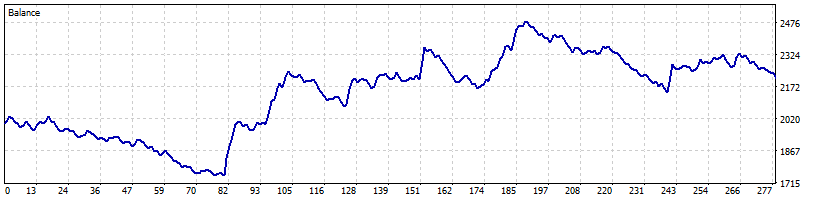
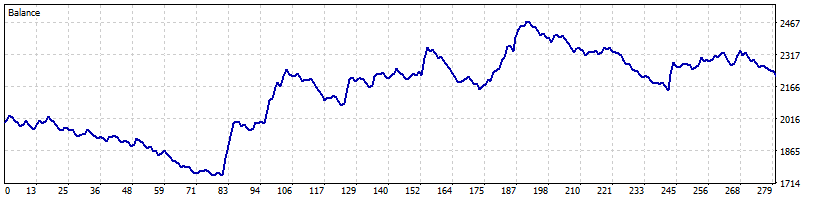
docs: refresh default reports

diff --git a/reports/default-2026-real-ticks/index.html b/reports/default-2026-real-ticks/index.html
@@ -79,20 +79,20 @@ tbody tr:last-child th,tbody tr:last-child td{border-bottom:0}
 </style></head>
 <body>
 <header class="site-header"><div class="bar">
-<span class="brand">Nyao Scalper v47.0 <span class="tag">Backtest Report</span></span>
+<span class="brand">Nyao Scalper v48.0 <span class="tag">Backtest Report</span></span>
 <nav class="links" aria-label="Links"><a href="https://github.com/elrizwiraswara/nyao_scalper_mt5">GitHub &#8599;</a></nav>
 </div></header>
 <main>
 <div class="band spacer" aria-hidden="true"><div class="frame"></div></div>
-<section class="band"><div class="frame"><p class="section-title"><span class="slashes">//</span> Backtest Report</p><div class="intro"><h1>Default profile - XAUUSDm M1 vs M5, real ticks Jan-Sep 2026</h1><p class="lead"><b>Nyao Scalper v47.0</b> with <b>settings/default.set</b> on XAUUSDm M1, M5, real ticks, 2026-01 to 2026-09. Each month is a separate run starting from the same deposit.</p></div></div></section>
+<section class="band"><div class="frame"><p class="section-title"><span class="slashes">//</span> Backtest Report</p><div class="intro"><h1>Default profile - XAUUSDm M1 vs M5, real ticks Jan-Sep 2026</h1><p class="lead"><b>Nyao Scalper v48.0</b> with <b>settings/default.set</b> on XAUUSDm M1, M5, real ticks, 2026-01 to 2026-09. Each month is a separate run starting from the same deposit.</p></div></div></section>
 <div class="band spacer" aria-hidden="true"><div class="frame"></div></div>
-<section class="band"><div class="frame"><h2 class="section-title"><span class="slashes">//</span> Setup</h2><div class="cells setup"><div><span class="label">EA</span><span class="value">Nyao Scalper v47.0 (nyao_scalper.mq5)</span></div><div><span class="label">Settings</span><span class="value">settings/default.set</span></div><div><span class="label">Git commit</span><span class="value">679fbe5</span></div><div><span class="label">Symbol / timeframes</span><span class="value">XAUUSDm / M1, M5</span></div><div><span class="label">Tick data</span><span class="value">Every tick based on real ticks</span></div><div><span class="label">Deposit / leverage</span><span class="value">2,000 USD / 1:500</span></div><div><span class="label">Runs</span><span class="value">One run per month, each starting from a fresh deposit</span></div><div><span class="label">Generated</span><span class="value">2026-10-15 23:49 with tools/backtest/nyao_backtest.py</span></div></div></div></section>
+<section class="band"><div class="frame"><h2 class="section-title"><span class="slashes">//</span> Setup</h2><div class="cells setup"><div><span class="label">EA</span><span class="value">Nyao Scalper v48.0 (nyao_scalper.mq5)</span></div><div><span class="label">Settings</span><span class="value">settings/default.set</span></div><div><span class="label">Git commit</span><span class="value">84ebb10</span></div><div><span class="label">Symbol / timeframes</span><span class="value">XAUUSDm / M1, M5</span></div><div><span class="label">Tick data</span><span class="value">Every tick based on real ticks</span></div><div><span class="label">Deposit / leverage</span><span class="value">2,000 USD / 1:500</span></div><div><span class="label">Runs</span><span class="value">One run per month, each starting from a fresh deposit</span></div><div><span class="label">Generated</span><span class="value">2026-10-16 10:03 with tools/backtest/nyao_backtest.py</span></div></div></div></section>
 <div class="band spacer" aria-hidden="true"><div class="frame"></div></div>
-<section class="band"><div class="frame"><h2 class="section-title"><span class="slashes">//</span> Summary</h2><div class="cells summary"><div><span class="tag">M1</span><span class="big pos">+22.0%</span><span class="muted">Total return (sum of runs)</span><dl class="metrics"><div><dt>Profitable runs</dt><dd>5 / 9</dd></div><div><dt>Best / worst run</dt><dd>+27.9% / -17.8%</dd></div><div><dt>Max drawdown</dt><dd>32.3%</dd></div><div><dt>Profit factor</dt><dd>1.04</dd></div><div><dt>Trades</dt><dd>1,478</dd></div><div><dt>Win rate</dt><dd>36%</dd></div><div><dt>Avg win / loss</dt><dd>$21.12 / -$11.27</dd></div><div><dt>Tick data</dt><dd>100% real ticks</dd></div></dl></div><div><span class="tag">M5</span><span class="big pos">+83.4%</span><span class="muted">Total return (sum of runs)</span><dl class="metrics"><div><dt>Profitable runs</dt><dd>6 / 9</dd></div><div><dt>Best / worst run</dt><dd>+39.9% / -3.1%</dd></div><div><dt>Max drawdown</dt><dd>20.0%</dd></div><div><dt>Profit factor</dt><dd>1.20</dd></div><div><dt>Trades</dt><dd>1,109</dd></div><div><dt>Win rate</dt><dd>44%</dd></div><div><dt>Avg win / loss</dt><dd>$20.72 / -$13.43</dd></div><div><dt>Tick data</dt><dd>100% real ticks</dd></div></dl></div></div></div></section>
+<section class="band"><div class="frame"><h2 class="section-title"><span class="slashes">//</span> Summary</h2><div class="cells summary"><div><span class="tag">M1</span><span class="big pos">+8.9%</span><span class="muted">Total return (sum of runs)</span><dl class="metrics"><div><dt>Profitable runs</dt><dd>5 / 9</dd></div><div><dt>Best / worst run</dt><dd>+27.9% / -20.1%</dd></div><div><dt>Max drawdown</dt><dd>27.5%</dd></div><div><dt>Profit factor</dt><dd>1.02</dd></div><div><dt>Trades</dt><dd>1,369</dd></div><div><dt>Win rate</dt><dd>35%</dd></div><div><dt>Avg win / loss</dt><dd>$21.13 / -$11.17</dd></div><div><dt>Tick data</dt><dd>100% real ticks</dd></div></dl></div><div><span class="tag">M5</span><span class="big pos">+83.3%</span><span class="muted">Total return (sum of runs)</span><dl class="metrics"><div><dt>Profitable runs</dt><dd>6 / 9</dd></div><div><dt>Best / worst run</dt><dd>+39.9% / -3.1%</dd></div><div><dt>Max drawdown</dt><dd>20.0%</dd></div><div><dt>Profit factor</dt><dd>1.20</dd></div><div><dt>Trades</dt><dd>1,112</dd></div><div><dt>Win rate</dt><dd>44%</dd></div><div><dt>Avg win / loss</dt><dd>$20.71 / -$13.42</dd></div><div><dt>Tick data</dt><dd>100% real ticks</dd></div></dl></div></div></div></section>
 <div class="band spacer" aria-hidden="true"><div class="frame"></div></div>
-<section class="band"><div class="frame"><h2 class="section-title"><span class="slashes">//</span> Results per Run</h2><div class="table-wrap"><table><thead><tr><th>Run</th><th>M1</th><th>M5</th></tr></thead><tbody><tr><th>2026-01</th><td><span class="ret pos">+27.9%</span><span class="sub">DD 9% · 181 trades</span></td><td><span class="ret pos">+39.9%</span><span class="sub">DD 9% · 166 trades</span></td></tr><tr><th>2026-02</th><td><span class="ret neg">-17.8%</span><span class="sub">DD 32% · 259 trades</span></td><td><span class="ret pos">+1.4%</span><span class="sub">DD 19% · 202 trades</span></td></tr><tr><th>2026-03</th><td><span class="ret pos">+10.7%</span><span class="sub">DD 16% · 277 trades</span></td><td><span class="ret pos">+9.9%</span><span class="sub">DD 18% · 196 trades</span></td></tr><tr><th>2026-04</th><td><span class="ret neg">-11.8%</span><span class="sub">DD 27% · 130 trades</span></td><td><span class="ret neg">-2.8%</span><span class="sub">DD 20% · 84 trades</span></td></tr><tr><th>2026-05</th><td><span class="ret neg">-9.6%</span><span class="sub">DD 18% · 121 trades</span></td><td><span class="ret pos">+1.5%</span><span class="sub">DD 13% · 90 trades</span></td></tr><tr><th>2026-06</th><td><span class="ret pos">+20.4%</span><span class="sub">DD 10% · 192 trades</span></td><td><span class="ret pos">+35.8%</span><span class="sub">DD 8% · 153 trades</span></td></tr><tr><th>2026-07</th><td><span class="ret pos">+2.5%</span><span class="sub">DD 14% · 106 trades</span></td><td><span class="ret neg">-3.1%</span><span class="sub">DD 10% · 66 trades</span></td></tr><tr><th>2026-08</th><td><span class="ret neg">-4.6%</span><span class="sub">DD 13% · 131 trades</span></td><td><span class="ret pos">+2.8%</span><span class="sub">DD 11% · 95 trades</span></td></tr><tr><th>2026-09</th><td><span class="ret pos">+4.2%</span><span class="sub">DD 8% · 81 trades</span></td><td><span class="ret neg">-2.0%</span><span class="sub">DD 12% · 57 trades</span></td></tr></tbody></table></div></div></section>
+<section class="band"><div class="frame"><h2 class="section-title"><span class="slashes">//</span> Results per Run</h2><div class="table-wrap"><table><thead><tr><th>Run</th><th>M1</th><th>M5</th></tr></thead><tbody><tr><th>2026-01</th><td><span class="ret pos">+27.9%</span><span class="sub">DD 9% · 181 trades</span></td><td><span class="ret pos">+39.9%</span><span class="sub">DD 9% · 166 trades</span></td></tr><tr><th>2026-02</th><td><span class="ret neg">-20.1%</span><span class="sub">DD 27% · 180 trades</span></td><td><span class="ret pos">+1.4%</span><span class="sub">DD 19% · 202 trades</span></td></tr><tr><th>2026-03</th><td><span class="ret pos">+10.9%</span><span class="sub">DD 16% · 279 trades</span></td><td><span class="ret pos">+9.9%</span><span class="sub">DD 19% · 198 trades</span></td></tr><tr><th>2026-04</th><td><span class="ret neg">-20.0%</span><span class="sub">DD 27% · 94 trades</span></td><td><span class="ret neg">-2.8%</span><span class="sub">DD 20% · 84 trades</span></td></tr><tr><th>2026-05</th><td><span class="ret neg">-9.5%</span><span class="sub">DD 18% · 120 trades</span></td><td><span class="ret pos">+1.6%</span><span class="sub">DD 13% · 90 trades</span></td></tr><tr><th>2026-06</th><td><span class="ret pos">+20.4%</span><span class="sub">DD 10% · 192 trades</span></td><td><span class="ret pos">+35.8%</span><span class="sub">DD 8% · 153 trades</span></td></tr><tr><th>2026-07</th><td><span class="ret pos">+0.9%</span><span class="sub">DD 15% · 107 trades</span></td><td><span class="ret neg">-3.1%</span><span class="sub">DD 10% · 66 trades</span></td></tr><tr><th>2026-08</th><td><span class="ret neg">-5.4%</span><span class="sub">DD 14% · 135 trades</span></td><td><span class="ret pos">+2.7%</span><span class="sub">DD 11% · 96 trades</span></td></tr><tr><th>2026-09</th><td><span class="ret pos">+3.7%</span><span class="sub">DD 8% · 81 trades</span></td><td><span class="ret neg">-2.0%</span><span class="sub">DD 12% · 57 trades</span></td></tr></tbody></table></div></div></section>
 <div class="band spacer" aria-hidden="true"><div class="frame"></div></div>
-<section class="band"><div class="frame"><h2 class="section-title"><span class="slashes">//</span> Balance Graphs</h2><h3 class="tf">M1</h3><div class="cells graphs"><figure><figcaption><b>2026-01</b><span class="pos">+27.9%</span><span class="faint">DD 9% · 181 trades</span></figcaption><img src="graphs/M1_2026-01.png" alt="M1 2026-01 balance graph" loading="lazy"></figure><figure><figcaption><b>2026-02</b><span class="neg">-17.8%</span><span class="faint">DD 32% · 259 trades</span></figcaption><img src="graphs/M1_2026-02.png" alt="M1 2026-02 balance graph" loading="lazy"></figure><figure><figcaption><b>2026-03</b><span class="pos">+10.7%</span><span class="faint">DD 16% · 277 trades</span></figcaption><img src="graphs/M1_2026-03.png" alt="M1 2026-03 balance graph" loading="lazy"></figure><figure><figcaption><b>2026-04</b><span class="neg">-11.8%</span><span class="faint">DD 27% · 130 trades</span></figcaption><img src="graphs/M1_2026-04.png" alt="M1 2026-04 balance graph" loading="lazy"></figure><figure><figcaption><b>2026-05</b><span class="neg">-9.6%</span><span class="faint">DD 18% · 121 trades</span></figcaption><img src="graphs/M1_2026-05.png" alt="M1 2026-05 balance graph" loading="lazy"></figure><figure><figcaption><b>2026-06</b><span class="pos">+20.4%</span><span class="faint">DD 10% · 192 trades</span></figcaption><img src="graphs/M1_2026-06.png" alt="M1 2026-06 balance graph" loading="lazy"></figure><figure><figcaption><b>2026-07</b><span class="pos">+2.5%</span><span class="faint">DD 14% · 106 trades</span></figcaption><img src="graphs/M1_2026-07.png" alt="M1 2026-07 balance graph" loading="lazy"></figure><figure><figcaption><b>2026-08</b><span class="neg">-4.6%</span><span class="faint">DD 13% · 131 trades</span></figcaption><img src="graphs/M1_2026-08.png" alt="M1 2026-08 balance graph" loading="lazy"></figure><figure><figcaption><b>2026-09</b><span class="pos">+4.2%</span><span class="faint">DD 8% · 81 trades</span></figcaption><img src="graphs/M1_2026-09.png" alt="M1 2026-09 balance graph" loading="lazy"></figure></div><h3 class="tf">M5</h3><div class="cells graphs"><figure><figcaption><b>2026-01</b><span class="pos">+39.9%</span><span class="faint">DD 9% · 166 trades</span></figcaption><img src="graphs/M5_2026-01.png" alt="M5 2026-01 balance graph" loading="lazy"></figure><figure><figcaption><b>2026-02</b><span class="pos">+1.4%</span><span class="faint">DD 19% · 202 trades</span></figcaption><img src="graphs/M5_2026-02.png" alt="M5 2026-02 balance graph" loading="lazy"></figure><figure><figcaption><b>2026-03</b><span class="pos">+9.9%</span><span class="faint">DD 18% · 196 trades</span></figcaption><img src="graphs/M5_2026-03.png" alt="M5 2026-03 balance graph" loading="lazy"></figure><figure><figcaption><b>2026-04</b><span class="neg">-2.8%</span><span class="faint">DD 20% · 84 trades</span></figcaption><img src="graphs/M5_2026-04.png" alt="M5 2026-04 balance graph" loading="lazy"></figure><figure><figcaption><b>2026-05</b><span class="pos">+1.5%</span><span class="faint">DD 13% · 90 trades</span></figcaption><img src="graphs/M5_2026-05.png" alt="M5 2026-05 balance graph" loading="lazy"></figure><figure><figcaption><b>2026-06</b><span class="pos">+35.8%</span><span class="faint">DD 8% · 153 trades</span></figcaption><img src="graphs/M5_2026-06.png" alt="M5 2026-06 balance graph" loading="lazy"></figure><figure><figcaption><b>2026-07</b><span class="neg">-3.1%</span><span class="faint">DD 10% · 66 trades</span></figcaption><img src="graphs/M5_2026-07.png" alt="M5 2026-07 balance graph" loading="lazy"></figure><figure><figcaption><b>2026-08</b><span class="pos">+2.8%</span><span class="faint">DD 11% · 95 trades</span></figcaption><img src="graphs/M5_2026-08.png" alt="M5 2026-08 balance graph" loading="lazy"></figure><figure><figcaption><b>2026-09</b><span class="neg">-2.0%</span><span class="faint">DD 12% · 57 trades</span></figcaption><img src="graphs/M5_2026-09.png" alt="M5 2026-09 balance graph" loading="lazy"></figure></div></div></section>
+<section class="band"><div class="frame"><h2 class="section-title"><span class="slashes">//</span> Balance Graphs</h2><h3 class="tf">M1</h3><div class="cells graphs"><figure><figcaption><b>2026-01</b><span class="pos">+27.9%</span><span class="faint">DD 9% · 181 trades</span></figcaption><img src="graphs/M1_2026-01.png" alt="M1 2026-01 balance graph" loading="lazy"></figure><figure><figcaption><b>2026-02</b><span class="neg">-20.1%</span><span class="faint">DD 27% · 180 trades</span></figcaption><img src="graphs/M1_2026-02.png" alt="M1 2026-02 balance graph" loading="lazy"></figure><figure><figcaption><b>2026-03</b><span class="pos">+10.9%</span><span class="faint">DD 16% · 279 trades</span></figcaption><img src="graphs/M1_2026-03.png" alt="M1 2026-03 balance graph" loading="lazy"></figure><figure><figcaption><b>2026-04</b><span class="neg">-20.0%</span><span class="faint">DD 27% · 94 trades</span></figcaption><img src="graphs/M1_2026-04.png" alt="M1 2026-04 balance graph" loading="lazy"></figure><figure><figcaption><b>2026-05</b><span class="neg">-9.5%</span><span class="faint">DD 18% · 120 trades</span></figcaption><img src="graphs/M1_2026-05.png" alt="M1 2026-05 balance graph" loading="lazy"></figure><figure><figcaption><b>2026-06</b><span class="pos">+20.4%</span><span class="faint">DD 10% · 192 trades</span></figcaption><img src="graphs/M1_2026-06.png" alt="M1 2026-06 balance graph" loading="lazy"></figure><figure><figcaption><b>2026-07</b><span class="pos">+0.9%</span><span class="faint">DD 15% · 107 trades</span></figcaption><img src="graphs/M1_2026-07.png" alt="M1 2026-07 balance graph" loading="lazy"></figure><figure><figcaption><b>2026-08</b><span class="neg">-5.4%</span><span class="faint">DD 14% · 135 trades</span></figcaption><img src="graphs/M1_2026-08.png" alt="M1 2026-08 balance graph" loading="lazy"></figure><figure><figcaption><b>2026-09</b><span class="pos">+3.7%</span><span class="faint">DD 8% · 81 trades</span></figcaption><img src="graphs/M1_2026-09.png" alt="M1 2026-09 balance graph" loading="lazy"></figure></div><h3 class="tf">M5</h3><div class="cells graphs"><figure><figcaption><b>2026-01</b><span class="pos">+39.9%</span><span class="faint">DD 9% · 166 trades</span></figcaption><img src="graphs/M5_2026-01.png" alt="M5 2026-01 balance graph" loading="lazy"></figure><figure><figcaption><b>2026-02</b><span class="pos">+1.4%</span><span class="faint">DD 19% · 202 trades</span></figcaption><img src="graphs/M5_2026-02.png" alt="M5 2026-02 balance graph" loading="lazy"></figure><figure><figcaption><b>2026-03</b><span class="pos">+9.9%</span><span class="faint">DD 19% · 198 trades</span></figcaption><img src="graphs/M5_2026-03.png" alt="M5 2026-03 balance graph" loading="lazy"></figure><figure><figcaption><b>2026-04</b><span class="neg">-2.8%</span><span class="faint">DD 20% · 84 trades</span></figcaption><img src="graphs/M5_2026-04.png" alt="M5 2026-04 balance graph" loading="lazy"></figure><figure><figcaption><b>2026-05</b><span class="pos">+1.6%</span><span class="faint">DD 13% · 90 trades</span></figcaption><img src="graphs/M5_2026-05.png" alt="M5 2026-05 balance graph" loading="lazy"></figure><figure><figcaption><b>2026-06</b><span class="pos">+35.8%</span><span class="faint">DD 8% · 153 trades</span></figcaption><img src="graphs/M5_2026-06.png" alt="M5 2026-06 balance graph" loading="lazy"></figure><figure><figcaption><b>2026-07</b><span class="neg">-3.1%</span><span class="faint">DD 10% · 66 trades</span></figcaption><img src="graphs/M5_2026-07.png" alt="M5 2026-07 balance graph" loading="lazy"></figure><figure><figcaption><b>2026-08</b><span class="pos">+2.7%</span><span class="faint">DD 11% · 96 trades</span></figcaption><img src="graphs/M5_2026-08.png" alt="M5 2026-08 balance graph" loading="lazy"></figure><figure><figcaption><b>2026-09</b><span class="neg">-2.0%</span><span class="faint">DD 12% · 57 trades</span></figcaption><img src="graphs/M5_2026-09.png" alt="M5 2026-09 balance graph" loading="lazy"></figure></div></div></section>
 <div class="band spacer" aria-hidden="true"><div class="frame"></div></div>
 <section class="band"><div class="frame"><h2 class="section-title"><span class="slashes">//</span> Notes</h2><div class="note"><p>Total return is the sum of the monthly returns: each month starts from the same deposit, so it is not compounded.</p><p>Backtests are not a guarantee of future results. Trading Forex and CFDs involves significant risk; forward-test on a demo account before using real money.</p></div></div></section>
 <div class="band spacer" aria-hidden="true"><div class="frame"></div></div>

diff --git a/reports/default-2025/index.html b/reports/default-2025/index.html
@@ -79,14 +79,14 @@ tbody tr:last-child th,tbody tr:last-child td{border-bottom:0}
 </style></head>
 <body>
 <header class="site-header"><div class="bar">
-<span class="brand">Nyao Scalper v47.0 <span class="tag">Backtest Report</span></span>
+<span class="brand">Nyao Scalper v48.0 <span class="tag">Backtest Report</span></span>
 <nav class="links" aria-label="Links"><a href="https://github.com/elrizwiraswara/nyao_scalper_mt5">GitHub &#8599;</a></nav>
 </div></header>
 <main>
 <div class="band spacer" aria-hidden="true"><div class="frame"></div></div>
-<section class="band"><div class="frame"><p class="section-title"><span class="slashes">//</span> Backtest Report</p><div class="intro"><h1>Default profile - XAUUSDm M1 vs M5, Jan-Dec 2025</h1><p class="lead"><b>Nyao Scalper v47.0</b> with <b>settings/default.set</b> on XAUUSDm M1, M5, ticks generated from 1-minute bars, 2025-01 to 2025-12. Each month is a separate run starting from the same deposit.</p></div></div></section>
+<section class="band"><div class="frame"><p class="section-title"><span class="slashes">//</span> Backtest Report</p><div class="intro"><h1>Default profile - XAUUSDm M1 vs M5, Jan-Dec 2025</h1><p class="lead"><b>Nyao Scalper v48.0</b> with <b>settings/default.set</b> on XAUUSDm M1, M5, ticks generated from 1-minute bars, 2025-01 to 2025-12. Each month is a separate run starting from the same deposit.</p></div></div></section>
 <div class="band spacer" aria-hidden="true"><div class="frame"></div></div>
-<section class="band"><div class="frame"><h2 class="section-title"><span class="slashes">//</span> Setup</h2><div class="cells setup"><div><span class="label">EA</span><span class="value">Nyao Scalper v47.0 (nyao_scalper.mq5)</span></div><div><span class="label">Settings</span><span class="value">settings/default.set</span></div><div><span class="label">Git commit</span><span class="value">679fbe5</span></div><div><span class="label">Symbol / timeframes</span><span class="value">XAUUSDm / M1, M5</span></div><div><span class="label">Tick data</span><span class="value">Generated from 1-minute bars (no real tick history for this period)</span></div><div><span class="label">Deposit / leverage</span><span class="value">2,000 USD / 1:500</span></div><div><span class="label">Runs</span><span class="value">One run per month, each starting from a fresh deposit</span></div><div><span class="label">Generated</span><span class="value">2026-10-15 23:36 with tools/backtest/nyao_backtest.py</span></div></div></div></section>
+<section class="band"><div class="frame"><h2 class="section-title"><span class="slashes">//</span> Setup</h2><div class="cells setup"><div><span class="label">EA</span><span class="value">Nyao Scalper v48.0 (nyao_scalper.mq5)</span></div><div><span class="label">Settings</span><span class="value">settings/default.set</span></div><div><span class="label">Git commit</span><span class="value">84ebb10</span></div><div><span class="label">Symbol / timeframes</span><span class="value">XAUUSDm / M1, M5</span></div><div><span class="label">Tick data</span><span class="value">Generated from 1-minute bars (no real tick history for this period)</span></div><div><span class="label">Deposit / leverage</span><span class="value">2,000 USD / 1:500</span></div><div><span class="label">Runs</span><span class="value">One run per month, each starting from a fresh deposit</span></div><div><span class="label">Generated</span><span class="value">2026-10-16 10:10 with tools/backtest/nyao_backtest.py</span></div></div></div></section>
 <div class="band spacer" aria-hidden="true"><div class="frame"></div></div>
 <section class="band"><div class="frame"><h2 class="section-title"><span class="slashes">//</span> Summary</h2><div class="cells summary"><div><span class="tag">M1</span><span class="big pos">+25.2%</span><span class="muted">Total return (sum of runs)</span><dl class="metrics"><div><dt>Profitable runs</dt><dd>7 / 12</dd></div><div><dt>Best / worst run</dt><dd>+16.7% / -3.9%</dd></div><div><dt>Max drawdown</dt><dd>14.1%</dd></div><div><dt>Profit factor</dt><dd>1.12</dd></div><div><dt>Trades</dt><dd>916</dd></div><div><dt>Win rate</dt><dd>24%</dd></div><div><dt>Avg win / loss</dt><dd>$21.41 / -$6.00</dd></div><div><dt>Tick data</dt><dd>0% real ticks</dd></div></dl></div><div><span class="tag">M5</span><span class="big pos">+66.2%</span><span class="muted">Total return (sum of runs)</span><dl class="metrics"><div><dt>Profitable runs</dt><dd>10 / 12</dd></div><div><dt>Best / worst run</dt><dd>+16.9% / -2.2%</dd></div><div><dt>Max drawdown</dt><dd>11.7%</dd></div><div><dt>Profit factor</dt><dd>1.38</dd></div><div><dt>Trades</dt><dd>515</dd></div><div><dt>Win rate</dt><dd>42%</dd></div><div><dt>Avg win / loss</dt><dd>$22.13 / -$11.56</dd></div><div><dt>Tick data</dt><dd>0% real ticks</dd></div></dl></div></div></div></section>
 <div class="band spacer" aria-hidden="true"><div class="frame"></div></div>

diff --git a/reports/default-2026-real-ticks/summary.md b/reports/default-2026-real-ticks/summary.md
@@ -2,14 +2,14 @@
 
 | Setting | Value |
 |---|---|
-| EA | Nyao Scalper v47.0 (`nyao_scalper.mq5`) |
+| EA | Nyao Scalper v48.0 (`nyao_scalper.mq5`) |
 | Settings | `settings/default.set` |
-| Git commit | 679fbe5 |
+| Git commit | 84ebb10 |
 | Symbol / timeframes | XAUUSDm / M1, M5 |
 | Tick data | Every tick based on real ticks |
 | Deposit / leverage | 2,000 USD / 1:500 |
 | Runs | One run per month, each starting from a fresh deposit |
-| Generated | 2026-10-15 23:49 with `tools/backtest/nyao_backtest.py` |
+| Generated | 2026-10-16 10:03 with `tools/backtest/nyao_backtest.py` |
 
 ## Summary
 
@@ -17,22 +17,22 @@ Total return is the sum of the monthly returns (each month starts from the same 
 
 | Timeframe | Total return | Profitable | Best / worst run | Max drawdown | Trades | Win rate | Avg win / loss | Profit factor | Tick data |
 |---|---|---|---|---|---|---|---|---|---|
-| M1 | +22.0% | 5/9 | +27.9% / -17.8% | 32.3% | 1,478 | 36% | $21.12 / -$11.27 | 1.04 | 100% real ticks |
-| M5 | +83.4% | 6/9 | +39.9% / -3.1% | 20.0% | 1,109 | 44% | $20.72 / -$13.43 | 1.20 | 100% real ticks |
+| M1 | +8.9% | 5/9 | +27.9% / -20.1% | 27.5% | 1,369 | 35% | $21.13 / -$11.17 | 1.02 | 100% real ticks |
+| M5 | +83.3% | 6/9 | +39.9% / -3.1% | 20.0% | 1,112 | 44% | $20.71 / -$13.42 | 1.20 | 100% real ticks |
 
 ## Results per run
 
 | Run | M1 | M5 |
 |---|---|---|
 | 2026-01 | +27.9% (DD 9%, 181 trades) | +39.9% (DD 9%, 166 trades) |
-| 2026-02 | -17.8% (DD 32%, 259 trades) | +1.4% (DD 19%, 202 trades) |
-| 2026-03 | +10.7% (DD 16%, 277 trades) | +9.9% (DD 18%, 196 trades) |
-| 2026-04 | -11.8% (DD 27%, 130 trades) | -2.8% (DD 20%, 84 trades) |
-| 2026-05 | -9.6% (DD 18%, 121 trades) | +1.5% (DD 13%, 90 trades) |
+| 2026-02 | -20.1% (DD 27%, 180 trades) | +1.4% (DD 19%, 202 trades) |
+| 2026-03 | +10.9% (DD 16%, 279 trades) | +9.9% (DD 19%, 198 trades) |
+| 2026-04 | -20.0% (DD 27%, 94 trades) | -2.8% (DD 20%, 84 trades) |
+| 2026-05 | -9.5% (DD 18%, 120 trades) | +1.6% (DD 13%, 90 trades) |
 | 2026-06 | +20.4% (DD 10%, 192 trades) | +35.8% (DD 8%, 153 trades) |
-| 2026-07 | +2.5% (DD 14%, 106 trades) | -3.1% (DD 10%, 66 trades) |
-| 2026-08 | -4.6% (DD 13%, 131 trades) | +2.8% (DD 11%, 95 trades) |
-| 2026-09 | +4.2% (DD 8%, 81 trades) | -2.0% (DD 12%, 57 trades) |
+| 2026-07 | +0.9% (DD 15%, 107 trades) | -3.1% (DD 10%, 66 trades) |
+| 2026-08 | -5.4% (DD 14%, 135 trades) | +2.7% (DD 11%, 96 trades) |
+| 2026-09 | +3.7% (DD 8%, 81 trades) | -2.0% (DD 12%, 57 trades) |
 
 ## Balance graphs
 
@@ -42,19 +42,19 @@ Total return is the sum of the monthly returns (each month starts from the same 
 
 ![M1 2026-01](graphs/M1_2026-01.png)
 
-**2026-02** -17.8%
+**2026-02** -20.1%
 
 ![M1 2026-02](graphs/M1_2026-02.png)
 
-**2026-03** +10.7%
+**2026-03** +10.9%
 
 ![M1 2026-03](graphs/M1_2026-03.png)
 
-**2026-04** -11.8%
+**2026-04** -20.0%
 
 ![M1 2026-04](graphs/M1_2026-04.png)
 
-**2026-05** -9.6%
+**2026-05** -9.5%
 
 ![M1 2026-05](graphs/M1_2026-05.png)
 
@@ -62,15 +62,15 @@ Total return is the sum of the monthly returns (each month starts from the same 
 
 ![M1 2026-06](graphs/M1_2026-06.png)
 
-**2026-07** +2.5%
+**2026-07** +0.9%
 
 ![M1 2026-07](graphs/M1_2026-07.png)
 
-**2026-08** -4.6%
+**2026-08** -5.4%
 
 ![M1 2026-08](graphs/M1_2026-08.png)
 
-**2026-09** +4.2%
+**2026-09** +3.7%
 
 ![M1 2026-09](graphs/M1_2026-09.png)
 
@@ -92,7 +92,7 @@ Total return is the sum of the monthly returns (each month starts from the same 
 
 ![M5 2026-04](graphs/M5_2026-04.png)
 
-**2026-05** +1.5%
+**2026-05** +1.6%
 
 ![M5 2026-05](graphs/M5_2026-05.png)
 
@@ -104,7 +104,7 @@ Total return is the sum of the monthly returns (each month starts from the same 
 
 ![M5 2026-07](graphs/M5_2026-07.png)
 
-**2026-08** +2.8%
+**2026-08** +2.7%
 
 ![M5 2026-08](graphs/M5_2026-08.png)
 

diff --git a/reports/default-2025/summary.md b/reports/default-2025/summary.md
@@ -2,14 +2,14 @@
 
 | Setting | Value |
 |---|---|
-| EA | Nyao Scalper v47.0 (`nyao_scalper.mq5`) |
+| EA | Nyao Scalper v48.0 (`nyao_scalper.mq5`) |
 | Settings | `settings/default.set` |
-| Git commit | 679fbe5 |
+| Git commit | 84ebb10 |
 | Symbol / timeframes | XAUUSDm / M1, M5 |
 | Tick data | Generated from 1-minute bars (no real tick history for this period) |
 | Deposit / leverage | 2,000 USD / 1:500 |
 | Runs | One run per month, each starting from a fresh deposit |
-| Generated | 2026-10-15 23:36 with `tools/backtest/nyao_backtest.py` |
+| Generated | 2026-10-16 10:10 with `tools/backtest/nyao_backtest.py` |
 
 ## Summary
 
